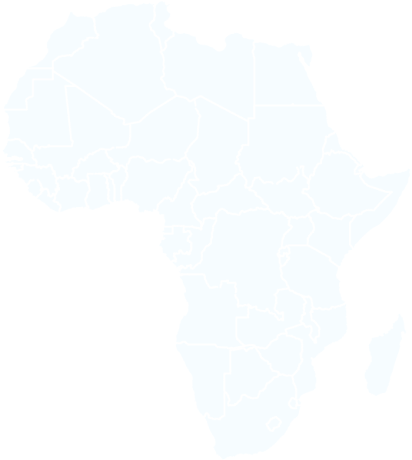
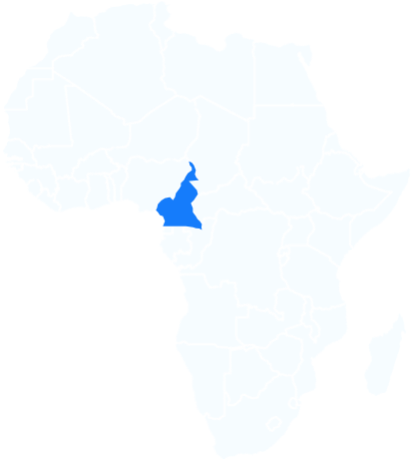
feat(app): #29 add Hero and TrustSection components with updated layout and styling

Changed region(s): [[0.3786, 0.3348, 0.4951, 0.5174]]

diff --git a/apps/landing/src/components/trustSection.tsx b/apps/landing/src/components/trustSection.tsx
@@ -1,0 +1,127 @@
+import { Box, Typography } from "@mui/material";
+import { useIntl } from "react-intl";
+import CheckCircleIcon from '@mui/icons-material/CheckCircle';
+import SectionTitle from "./sectionTitle";
+
+
+export default function TrustSection() {
+    const { formatMessage } = useIntl();
+
+    return (
+        <Box sx={{
+            display: 'grid',
+            padding: '0 118px',
+            paddingBottom: '48px',
+            background: 'linear-gradient(to right, rgba(15, 93, 190, 1), rgba(7, 43, 88, 1))',
+            color: 'white',
+            textAlign: 'center',
+            rowGap: 7
+        }}>
+            <Box sx={{
+                display: 'grid',
+                rowGap: 1
+            }}>
+                <SectionTitle color="white">
+                    {formatMessage({ id: 'HeroRemittanceMessage' })}
+                </SectionTitle>
+                <Typography variant="h3" >
+                    {formatMessage({ id: 'reliableRemittanceService' })}
+                </Typography>
+            </Box>
+            <Box sx={{
+                display: 'grid',
+                alignItems: 'center',
+                justifyContent: 'center',
+            }}>
+                <Box sx={{
+                    display: 'grid',
+                    gridAutoFlow: 'column',
+                    alignItems: 'center',
+                }}>
+                    <Box sx={{
+                        display: 'grid',
+                        height: 'fit-content'
+                    }}>
+                        <Box sx={{
+                            display: 'grid',
+                            gridAutoFlow: 'column',
+                            alignItems: 'center',
+                            width: 'fit-content',
+                        }}>
+                            <Box
+                                component='img'
+                                src='/assets/cad.png'
+                                alt="cad flag"
+                            />
+                            <Box
+                                component='img'
+                                src='/assets/arrow.png'
+                                alt="arrow"
+                                sx={{
+                                    transform: 'scaleY(-1)',
+                                    width: '180px',
+                                }}
+                            />
+                        </Box>
+                        <Box sx={{
+                            display: 'grid',
+                            gridAutoFlow: 'column',
+                            alignItems: 'center',
+                            width: 'fit-content',
+                        }}>
+                            <Box
+                                component='img'
+                                src='/assets/usa.png'
+                                alt="cad flag"
+                            />
+                            <Box
+                                component='img'
+                                src='/assets/arrow.png'
+                                alt="arrow"
+                                width={180}
+                            />
+                        </Box>
+                    </Box>
+                    <Box
+                        component='img'
+                        src='/assets/africa.png'
+                        alt='africa map'
+                        sx={{
+                            width: '400px',
+                            height: '400px',
+                        }}
+                    />
+                </Box>
+            </Box>
+            <Box sx={{
+                display: 'grid',
+                gridTemplateColumns: 'repeat(2, 1fr)',
+                columnGap: 25,
+            }}>
+                <Box sx={{
+                    display: 'grid',
+                    gridAutoFlow: 'column',
+                    textAlign: 'left',
+                    columnGap: 1,
+                }}>
+                    <CheckCircleIcon sx={{ color: 'white' }} />
+                    <Typography variant="h4">
+                        {formatMessage({ id: 'serviceLocation' })}
+                    </Typography>
+                </Box>
+                <Box sx={{
+                    display: 'grid',
+                    gridAutoFlow: 'column',
+                    textAlign: 'left',
+                    columnGap: 1,
+                }}>
+                    <CheckCircleIcon sx={{ color: 'white' }} />
+                    <Typography variant="h4">
+                        {formatMessage({ id: 'conformityAndCompliance' })}
+                    </Typography>
+                </Box>
+            </Box>
+        </Box>
+
+    )
+}

diff --git a/apps/landing/src/app/page.tsx b/apps/landing/src/app/page.tsx
@@ -1,7 +1,6 @@
 'use client';
 
 import ArrowForwardIosSharpIcon from '@mui/icons-material/ArrowForwardIosSharp';
-import CheckCircleIcon from '@mui/icons-material/CheckCircle';
 import { Accordion, AccordionDetails, AccordionSummary, Box, Button, Chip, Typography } from '@mui/material';
 import { useTheme } from '@xafpay/theme';
 import { IPaymentMethods } from '@xafpay/types';
@@ -9,8 +8,9 @@ import Image from 'next/image';
 import { QRCodeSVG } from 'qrcode.react';
 import { useEffect, useState } from 'react';
 import { useIntl } from 'react-intl';
-import HeroIllustration from '../components/HeroIllustration';
+import Hero from '../components/Hero';
 import PageLayout from '../components/layout/pageLayout';
+import TrustSection from '../components/trustSection';
 
 interface IFaq {
   question: string,
@@ -80,124 +80,8 @@ export default function Index() {
   ), [])
   return (
     <PageLayout>
-      <HeroIllustration />
-      {/* 
-      Second section for remittance representation
-      */}
-      <Box sx={{
-        display: 'grid',
-        padding: '48px 118px',
-        background: 'linear-gradient(to right, rgba(15, 93, 190, 1), rgba(7, 43, 88, 1))',
-        color: 'white',
-        textAlign: 'center',
-        rowGap: 7
-      }}>
-        <Box sx={{
-          display: 'grid',
-          rowGap: 1
-        }}>
-          <Typography variant="h1">
-            {formatMessage({ id: 'HeroRemittanceMessage' })}
-          </Typography>
-          <Typography variant="h3" >
-            {formatMessage({ id: 'reliableRemittanceService' })}
-          </Typography>
-        </Box>
-        <Box sx={{
-          display: 'grid',
-          alignItems: 'center',
-          justifyContent: 'center',
-        }}>
-          <Box sx={{
-            display: 'grid',
-            gridAutoFlow: 'column',
-            alignItems: 'center',
-          }}>
-            <Box sx={{
-              display: 'grid',
-              height: 'fit-content'
-            }}>
-              <Box sx={{
-                display: 'grid',
-                gridAutoFlow: 'column',
-                alignItems: 'center',
-                width: 'fit-content',
-              }}>
-                <Box
-                  component='img'
-                  src='/assets/cad.png'
-                  alt="cad flag"
-                />
-                <Box
-                  component='img'
-                  src='/assets/arrow.png'
-                  alt="arrow"
-                  sx={{
-                    transform: 'scaleY(-1)',
-                    width: '180px',
-                  }}
-                />
-              </Box>
-              <Box sx={{
-                display: 'grid',
-                gridAutoFlow: 'column',
-                alignItems: 'center',
-                width: 'fit-content',
-              }}>
-                <Box
-                  component='img'
-                  src='/assets/usa.png'
-                  alt="cad flag"
-                />
-                <Box
-                  component='img'
-                  src='/assets/arrow.png'
-                  alt="arrow"
-                  width={180}
-                />
-              </Box>
-            </Box>
-            <Box
-              component='img'
-              src='/assets/africa.png'
-              alt='africa map'
-              sx={{
-                width: '400px',
-                height: '400px',
-              }}
-            />
-          </Box>
-        </Box>
-        <Box sx={{
-          display: 'grid',
-          gridTemplateColumns: 'repeat(2, 1fr)',
-          columnGap: 25,
-        }}>
-          <Box sx={{
-            display: 'grid',
-            gridAutoFlow: 'column',
-            textAlign: 'left',
-            columnGap: 1,
-          }}>
-            <CheckCircleIcon sx={{ color: 'white' }} />
-            <Typography variant="h5">
-              {formatMessage({ id: 'serviceLocation' })}
-            </Typography>
-          </Box>
-          <Box sx={{
-            display: 'grid',
-            gridAutoFlow: 'column',
-            textAlign: 'left',
-            columnGap: 1,
-          }}>
-            <CheckCircleIcon sx={{ color: 'white' }} />
-            <Typography variant="h5">
-              {formatMessage({ id: 'conformityAndCompliance' })}
-            </Typography>
-          </Box>
-        </Box>
-      </Box>
-
+      <Hero />
+      <TrustSection />
       {/* 
       Third section for Trusty
       */}

diff --git a/apps/landing/src/components/sectionTitle.tsx b/apps/landing/src/components/sectionTitle.tsx
@@ -1,0 +1,28 @@
+import { Typography } from '@mui/material';
+
+interface SectionTitleProps {
+    children: string;
+    color: string;
+}
+export default function SectionTitle({
+    children,
+    color
+}: SectionTitleProps) {
+    return (
+        <Typography
+            variant="h1"
+            sx={{
+                fontFamily: 'Space Grotesk',
+                textAlign: 'center',
+                fontSize: { tablet: '48px', mobile: '36px' },
+                lineHeight: '120%',
+                color: color,
+                width: { tablet: '60%', mobile: '90%' },
+                justifySelf: 'center',
+                paddingTop: 7.5,
+            }}
+        >
+            {children}
+        </Typography>
+    );
+}

diff --git a/apps/landing/src/components/Hero.tsx b/apps/landing/src/components/Hero.tsx
@@ -12,7 +12,7 @@ import CurrencyMenu from './currencyMeny';
 
 
 
-export default function HeroIllustration() {
+export default function Hero() {
   const { formatMessage, formatNumber } = useIntl();
   const theme = useTheme();
 
